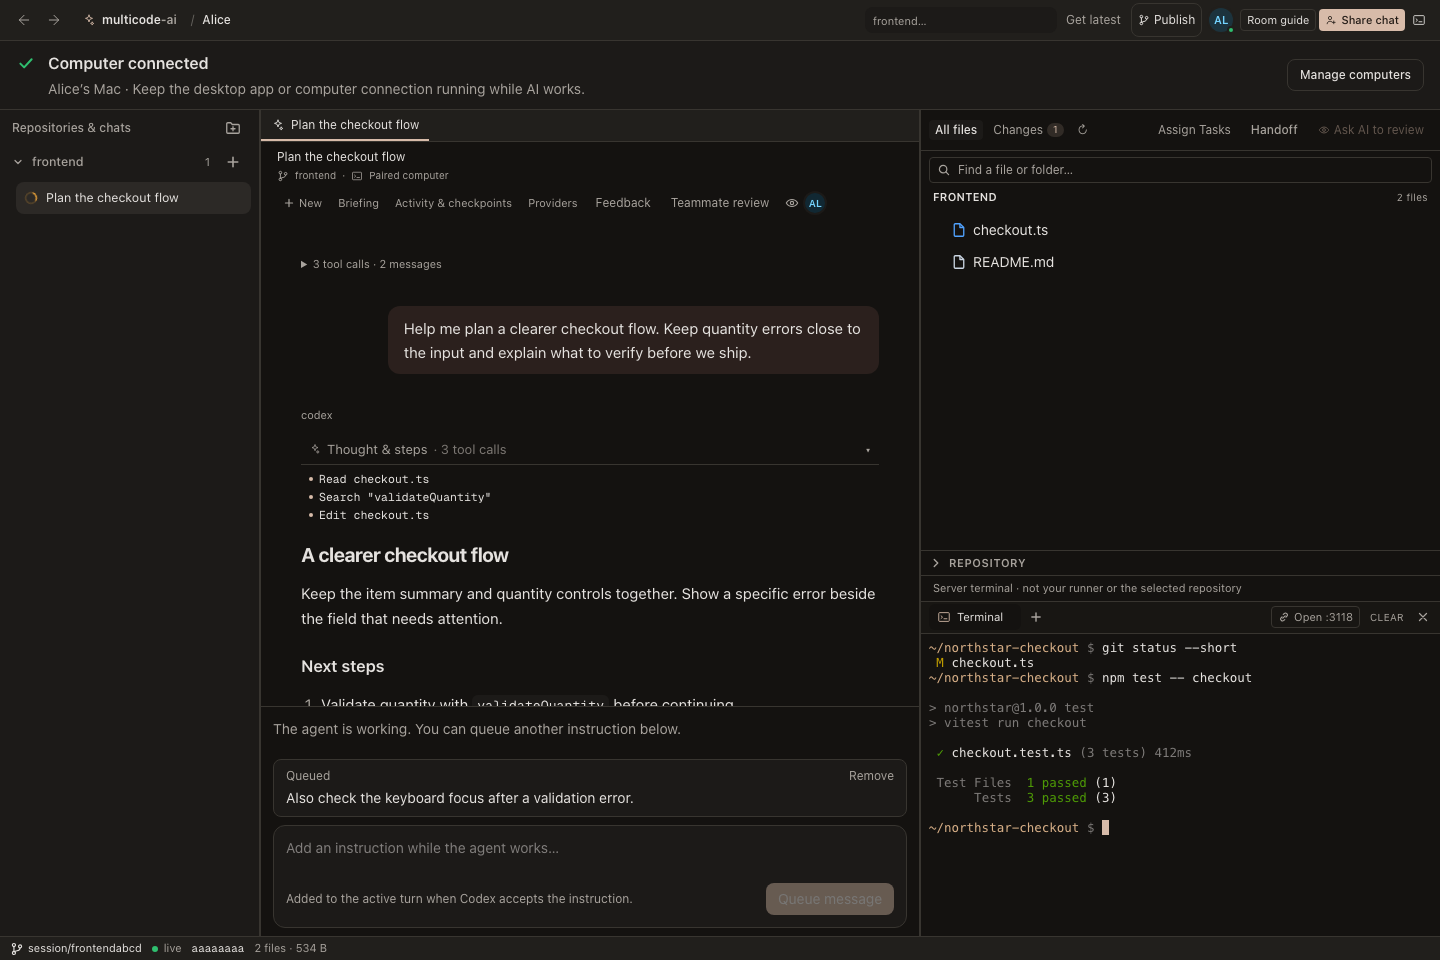
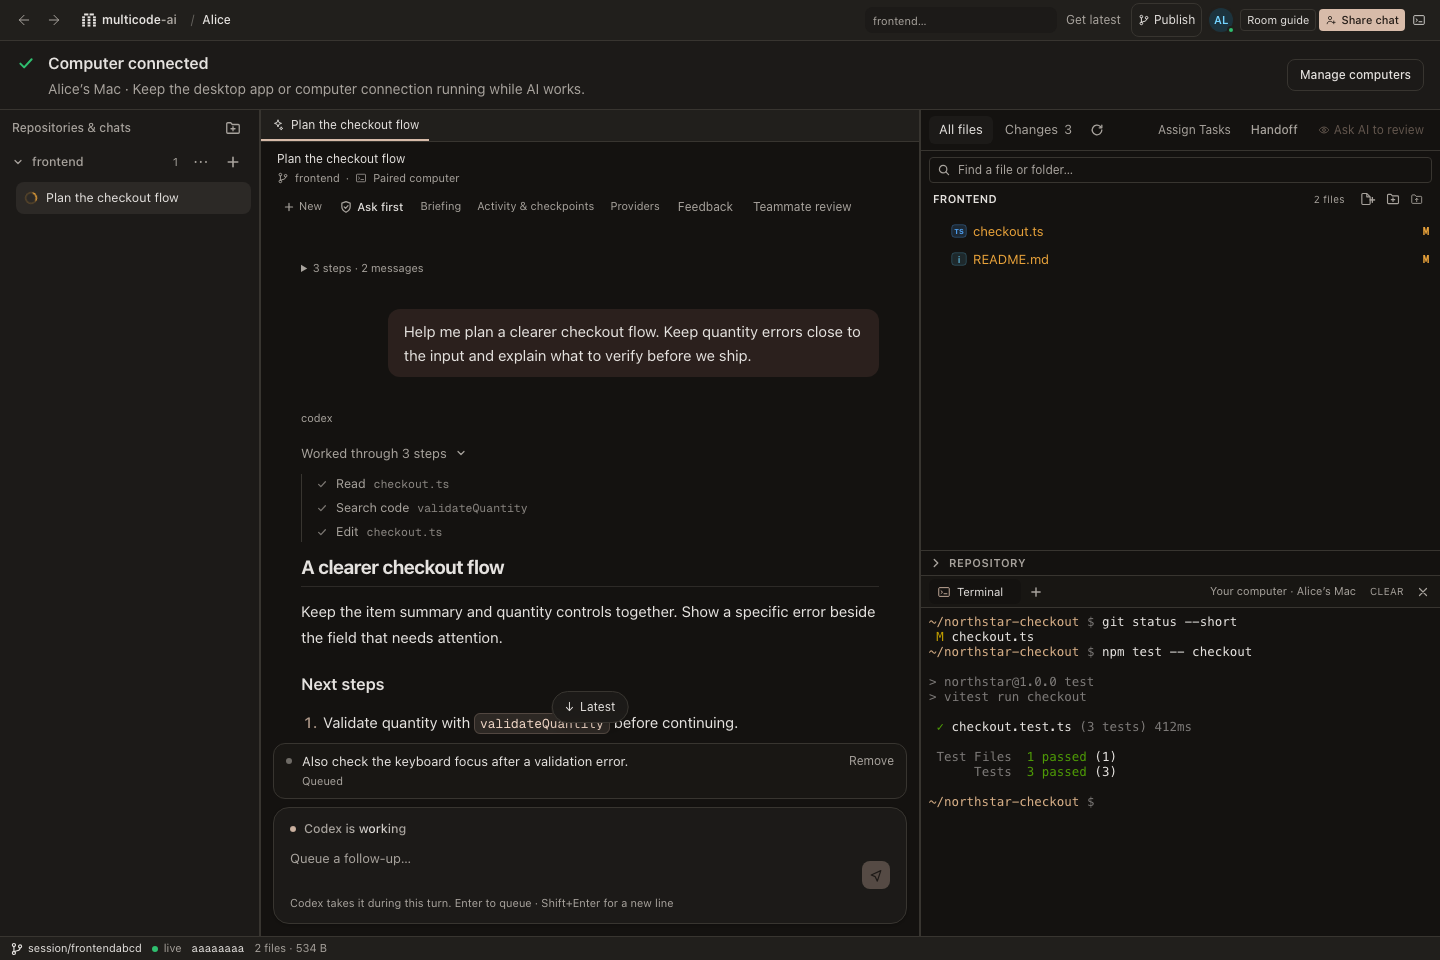
Fresh screenshots of the current app on the website and in the docs
Recaptured all 26 from the real components with the sample data in
scripts/capture-docs.mjs (last captured on Oct 14). The script had fallen
behind the app: the terminal now runs on the member's computer and starts
open, the agent's steps read "Worked through N steps", and the Changes tab
shows its count. The Changes capture now shows a file's diff beside the chat,
the terminal one a working terminal on Alice's Mac, and Desktop settings the
built-in website instead of an address field.

diff --git a/app/docs/screenshots.ts b/app/docs/screenshots.ts
@@ -1,6 +1,6 @@
 /** Captured from the real components using isolated sample data; see docs/user-documentation.md. */
 export const screenshots: Record<string, { src: string; alt: string; label: string; width: number; height: number }> = Object.fromEntries([
-  ["desktop-setup", "Desktop setup", "Desktop settings with Workspace address and runner controls."],
+  ["desktop-setup", "Desktop setup", "Desktop settings showing the website the app opens and the runner controls."],
   ["desktop-worktrees", "Local worktree settings", "Desktop settings showing the local worktrees folder and update controls."],
   ["workspace", "Project overview", "A sample organisation’s project overview and workspace navigation."],
   ["computers", "Your computers", "The Your computers dialog showing a connected sample computer."],
@@ -13,7 +13,7 @@ export const screenshots: Record<string, { src: string; alt: string; label: stri
   ["model-picker", "Choose a model", "The searchable model picker above the AI composer; the listed models are sample data."],
   ["files", "File viewer", "A repository file open in the centre panel beside the file manager."],
   ["changes", "Saved file changes", "The Changes tab showing a modified file beside its current saved contents."],
-  ["terminal", "Hosted terminal availability", "The terminal panel explaining that interactive shell access is unavailable on the hosted workspace."],
+  ["terminal", "Terminal on your computer", "The terminal panel running tests in the chat's worktree on Alice's Mac."],
   ["history", "Activity and checkpoints", "The Synchronized workspace history dialog and code checkpoint picker."],
   ["briefing", "Conversation briefing", "An expanded conversation briefing with its goal, decisions, progress, checks, and next action."],
   ["memory", "Room memory", "The Room memory dialog for inspecting records and their source evidence."],
